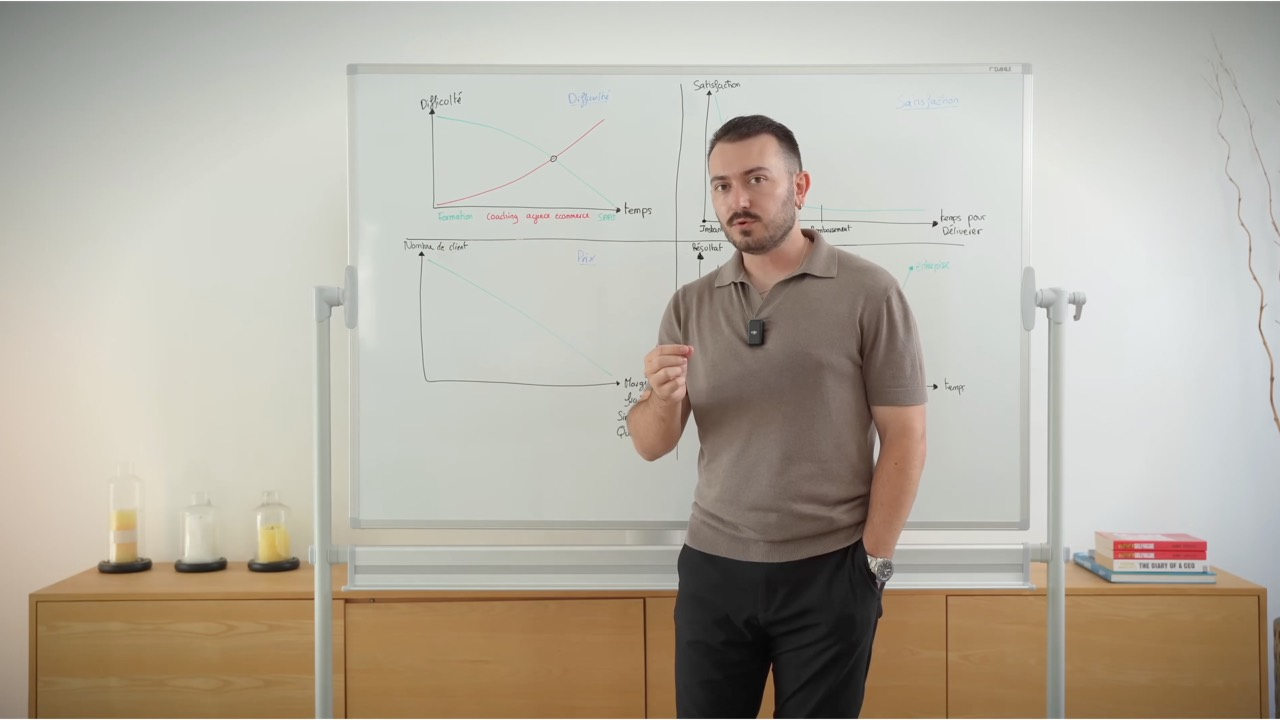
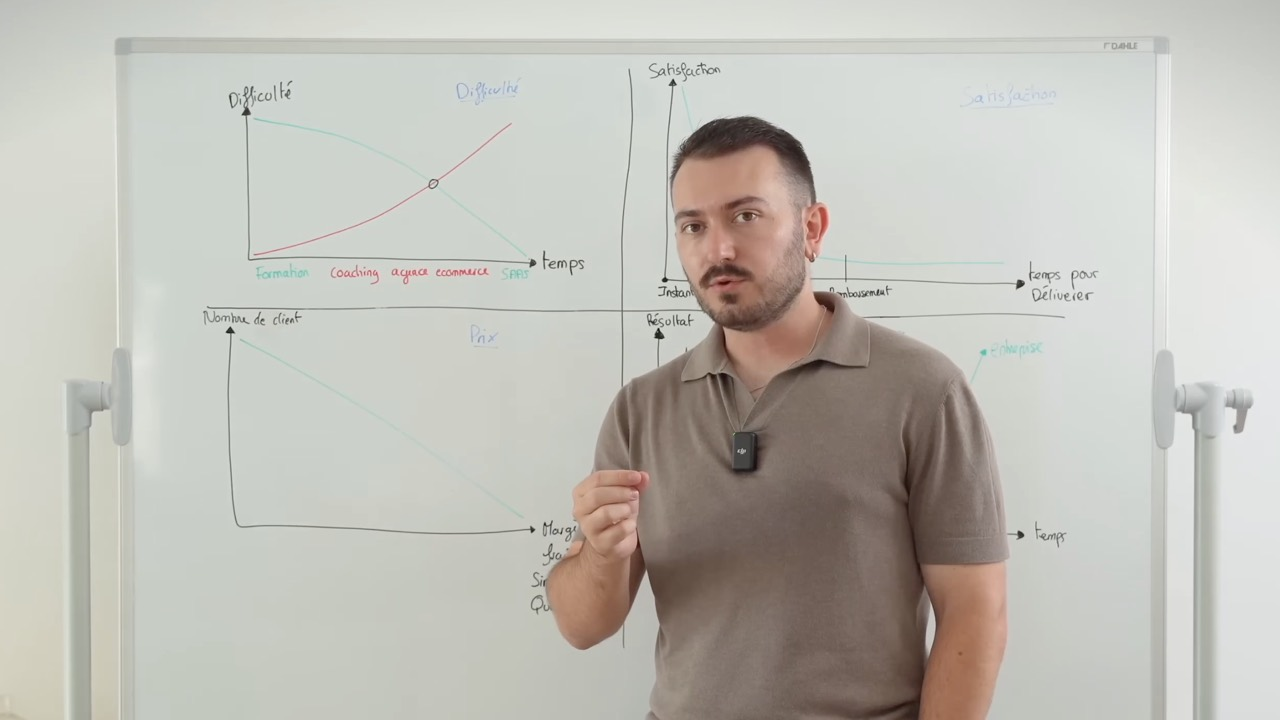
Formation Genesis : sous-titre mis en forme, image principale recadrée (#8)
Sur demande de Rémy : « 4 modules » en gras et « créer », « lancer »,
« développer » soulignés, le sous-titre passant en segments ; l'image
principale de la maquette resserrée sur le tableau et sur lui (84 Ko).

diff --git a/apps/web/app/formation-genesis/page.tsx b/apps/web/app/formation-genesis/page.tsx
@@ -5,6 +5,7 @@ import { Emplacement } from "@/components/section";
 import { optinGenesis, partiesGenesis } from "@/contenu/formation-genesis";
 import { insecables } from "@/lib/typographie";
 import type { Metadata } from "next";
+import { Fragment } from "react";
 
 /**
  * L'optin de la Formation Genesis, `go.funnels.club/formation-genesis`
@@ -31,12 +32,28 @@ export default function FormationGenesis() {
   const { etiquette, titre } = optinGenesis;
   /* Les quatre derniers mots sont liés par des espaces insécables : sans
      cela, le dernier mot finit seul sur sa ligne à 375 px, et `text-pretty`
-     ne l'empêche pas. */
-  const sousTitre = insecables(
-    optinGenesis
-      .sousTitre(partiesGenesis.filter((p) => !p.bonus).length)
-      .replace(/ (\S+) (\S+) (\S+)$/, " $1 $2 $3"),
+     ne l'empêche pas. Ils sont dans le dernier segment, qui est du texte. */
+  const segments = optinGenesis.sousTitre(
+    partiesGenesis.filter((p) => !p.bonus).length,
   );
+  const sousTitre = segments.map((segment, i) => {
+    if (typeof segment !== "string")
+      return "gras" in segment ? (
+        <strong key={i}>{segment.gras}</strong>
+      ) : (
+        <span
+          key={i}
+          className="underline decoration-[0.08em] underline-offset-[0.18em]"
+        >
+          {segment.souligne}
+        </span>
+      );
+    const texte =
+      i === segments.length - 1
+        ? segment.replace(/ (\S+) (\S+) (\S+)$/, " $1 $2 $3")
+        : segment;
+    return <Fragment key={i}>{insecables(texte)}</Fragment>;
+  });
 
   return (
     <main className="bg-[var(--genesis-fond)] text-[var(--genesis-encre)]">

diff --git a/apps/web/contenu/formation-genesis.ts b/apps/web/contenu/formation-genesis.ts
@@ -24,6 +24,9 @@ export const RACINE_GENESIS = "/formation-genesis";
  */
 export const TAG_GENESIS = { id: 481456, nom: "formation genesis" } as const;
 
+/** Un morceau de phrase : du texte, ou un passage en gras ou souligné. */
+export type SegmentGenesis = string | { gras: string } | { souligne: string };
+
 /** Les textes de l'optin, `/formation-genesis`. */
 export const optinGenesis = {
   /* Titre d'onglet et description : PROVISOIRES, de l'agent. Une page de
@@ -54,9 +57,21 @@ export const optinGenesis = {
    * **Le nombre de modules est calculé**, jamais écrit : c'est celui de
    * `partiesGenesis`, bonus exclus. Rémy a écrit « 4 modules » ; la phrase
    * suit la liste le jour où elle change, comme le veut `AGENTS.md`.
+   *
+   * En segments, pour la mise en forme de Rémy : « 4 modules » en gras,
+   * « créer », « lancer » et « développer » soulignés.
    */
-  sousTitre: (modules: number) =>
-    `Accédez à ${modules} modules de formation gratuite qui dévoilent la stratégie étape par étape pour créer, lancer et développer un business de formation profitable`,
+  sousTitre: (modules: number): SegmentGenesis[] => [
+    "Accédez à ",
+    { gras: `${modules}\u00a0modules` },
+    " de formation gratuite qui dévoilent la stratégie étape par étape pour ",
+    { souligne: "créer" },
+    ", ",
+    { souligne: "lancer" },
+    " et ",
+    { souligne: "développer" },
+    " un business de formation profitable",
+  ],
   /**
    * La maquette du lecteur, à gauche du formulaire : une carte au dessin du
    * lecteur Wistia, et deux derrière elle. **Les trois images sont celles
